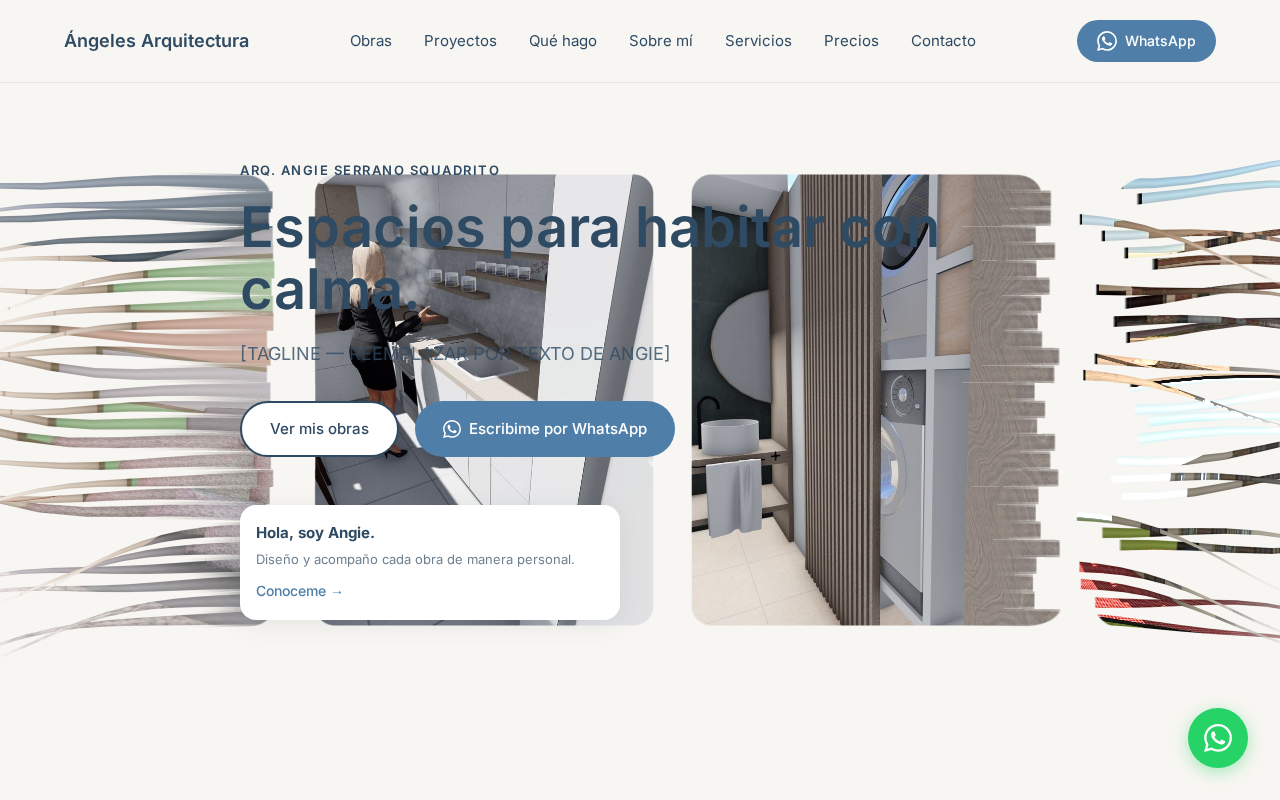
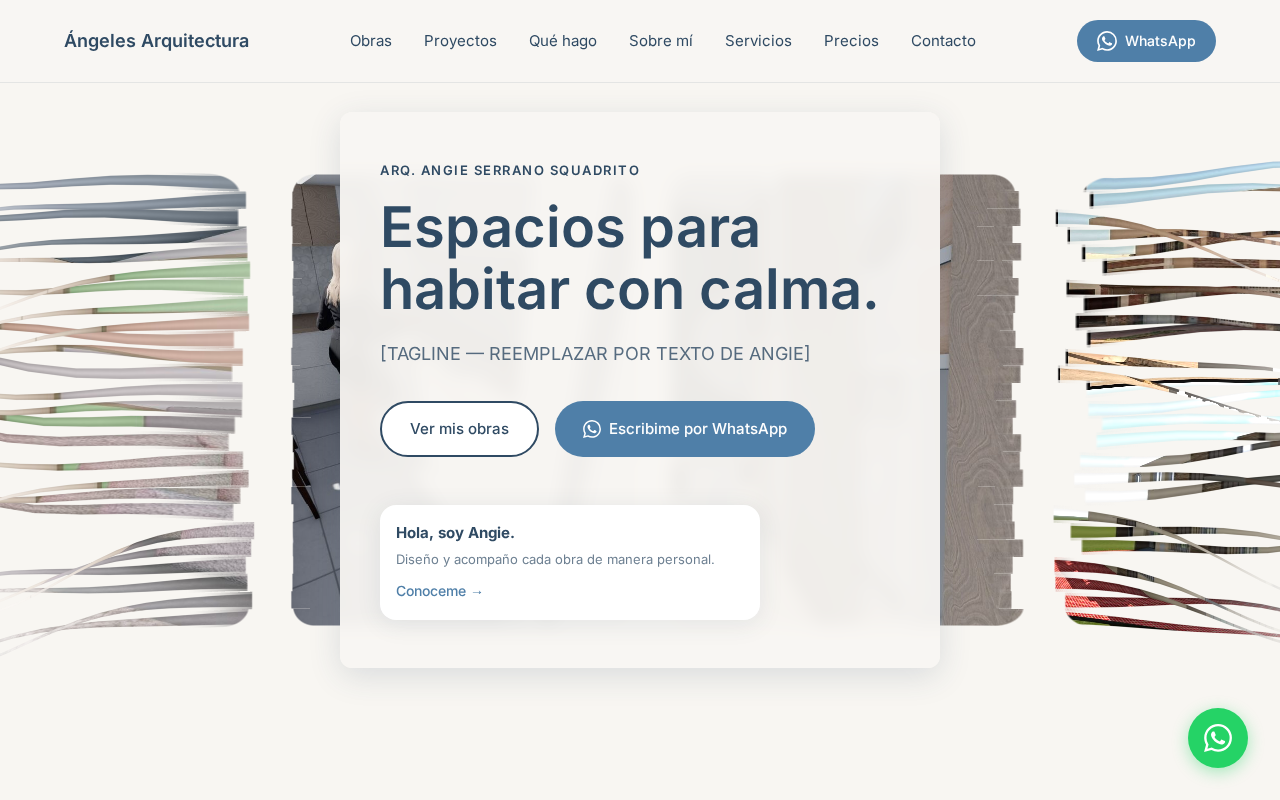
Fix Unwoven text readability: add semi-transparent panel
- Add 95% opaque background panel (#F8F6F2) behind hero text
- Apply backdrop blur and shadow for depth
- Responsive padding and positioning
- Text now clearly readable over image cards
- Canvas art remains fully visible behind panel
- Update desktop and mobile screenshots

Changed region(s): [[0.0, 0.1875, 1.0, 0.8125], [0.0, 0.7812, 0.0312, 0.8125]]

diff --git a/index.html b/index.html
@@ -29,12 +29,38 @@
         .hero-canvas-stage.is-dragging { cursor: grabbing; }
         .hero-canvas-stage canvas { display: block; width: 100%; height: 100%; }
         
-        .hero { position: relative; overflow: hidden; }
+        .hero { 
+            position: relative; 
+            overflow: hidden;
+            min-height: 100vh;
+            display: flex;
+            align-items: center;
+        }
         .hero-bg { display: none; }
-        .hero-content { position: relative; z-index: 1; }
+        
+        /* Text panel with clean background */
+        .hero-content { 
+            position: relative; 
+            z-index: 1;
+            background: rgba(248, 246, 242, 0.95);
+            padding: 3rem 2.5rem;
+            border-radius: 12px;
+            max-width: 600px;
+            backdrop-filter: blur(8px);
+            box-shadow: 0 8px 32px rgba(47, 74, 99, 0.15);
+        }
         
         @media (max-width: 768px) {
-            .hero { min-height: 100vh; }
+            .hero { 
+                min-height: 100vh;
+                align-items: flex-start;
+                padding-top: 8rem;
+            }
+            .hero-content {
+                padding: 2rem 1.5rem;
+                margin: 0 1rem;
+                max-width: none;
+            }
         }
     </style>
 </head>
